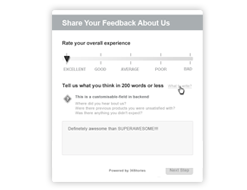
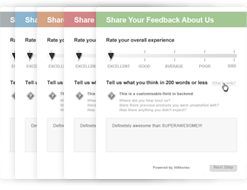
New Tour Page

diff --git a/application/views/home/tour.php b/application/views/home/tour.php
@@ -5,7 +5,8 @@ $(document).ready(function(){
 							speed:500, 
 							timeout:0 ,
 							pause : 1,
-							easing: 'easeInOutExpo'
+							easing: 'easeInOutExpo',
+							before: onAfter
 						});
 	$('ul#menu-list').children().each(function(i){			
 
@@ -279,6 +280,7 @@ function onAfter(curr, next, opts, fwd) {
           </div>
           <br class="clear" />
         </div>
+        <!-- slide 3 -->
         <div class="container-box">
           <div class="main-title">
             <div class="main-title-image">
@@ -329,6 +331,7 @@ function onAfter(curr, next, opts, fwd) {
           </div>
           <br class="clear" />
         </div>
+        <!-- slide 4 -->
         <div class="container-box">
           <div class="main-title">
             <div class="main-title-image">
@@ -365,20 +368,79 @@ function onAfter(curr, next, opts, fwd) {
             </div>
             <br class="clear" />
           </div>
-          <div class="sub-info last">
-            <div class="subinfo-text">
+          <div class="sub-info">
+            <div class="subinfo-text left" style="width:255px">
               <h2>Over 30 dynamic templates to choose from</h2>
               <p>Choose and select over 30 different design themes and styles to suit your website. From simple quotes to fancy profile setups, our team of designers is consistently adding to our theme and style database each week - so you don't have to worry about running out of ideas.</p>
               <p>If you don't want to show your customers last names, we've got that covered - you can easily configure each theme to hide fields that you don't want to display to the public.</p>
               <br class="clear" />
             </div>
-            <div class="subinfo-image right">
+            <div class="subinfo-image right"style="width:275px">
               <?=HTML::image('img/toursubimage43.png')?>
             </div>
             <br class="clear" />
           </div>
+          <div class="sub-info">
+            <div class="subinfo-image left">
+              <?=HTML::image('img/toursubimage44.png')?>
+            </div>
+            <div class="subinfo-text">
+              <h2>Social sharing</h2>
+              <p>Let your endorsements go viral with integrated social media links. 36Stories makes it easier for others to agree and share the same experience they've had with your brand.</p>
+              <br class="clear" />
+            </div>
+            <br class="clear" />
+          </div>
+          <div class="sub-info">
+            <div class="subinfo-text" style="width:172px">
+              <h2>Show them all off</h2>
+              <p>Our plug-and-play themes allow your visitors to view hundreds, or even thousands of endorsements every single day. Visitors can scroll through feedback that's left daily on your website, increasing brand goodwill and trust.</p>
+              <br class="clear" />
+            </div>
+            <div class="subinfo-image right" style="width:405px;">
+              <?=HTML::image('img/toursubimage45.png')?>
+            </div>
+            <br class="clear" />
+          </div>
+          <div class="sub-info">
+            <div class="subinfo-image left">
+              <?=HTML::image('img/toursubimage46.png')?>
+            </div>
+            <div class="subinfo-text">
+              <h2>Authentic customer profiles</h2>
+              <p>We help your customers create authentic user profiles easy through Facebook Connect – to instantly boost credibility with your brand, without you having to lift a single line of code.</p>
+              <br class="clear" />
+            </div>
+            <br class="clear" />
+          </div>
+          <div class="sub-info last">
+            <div class="subinfo-text" style="width:255px;">
+              <h2>Easy to integrate</h2>
+              <p>Start using 36Stories on your website within minutes with a wide variety of great-looking tabs and links.</p>
+              <br class="clear" />
+            </div>
+            <div class="subinfo-image right" style="width:275px;">
+              <?=HTML::image('img/toursubimage47.png')?>
+            </div>
+            <br class="clear" />
+          </div>
           <br class="clear" />
+          <br />
+          <br />
+          <br />
+          <br />
+          <br />
+          <br />
+          <br />
+          <br />
+          <br />
+          <br />
+          <br />
+          <br />
+          <br />
         </div>
+        
+        <!-- content 5 -->
         <div class="container-box">
           <div class="main-title">
             <div class="main-title-image">
